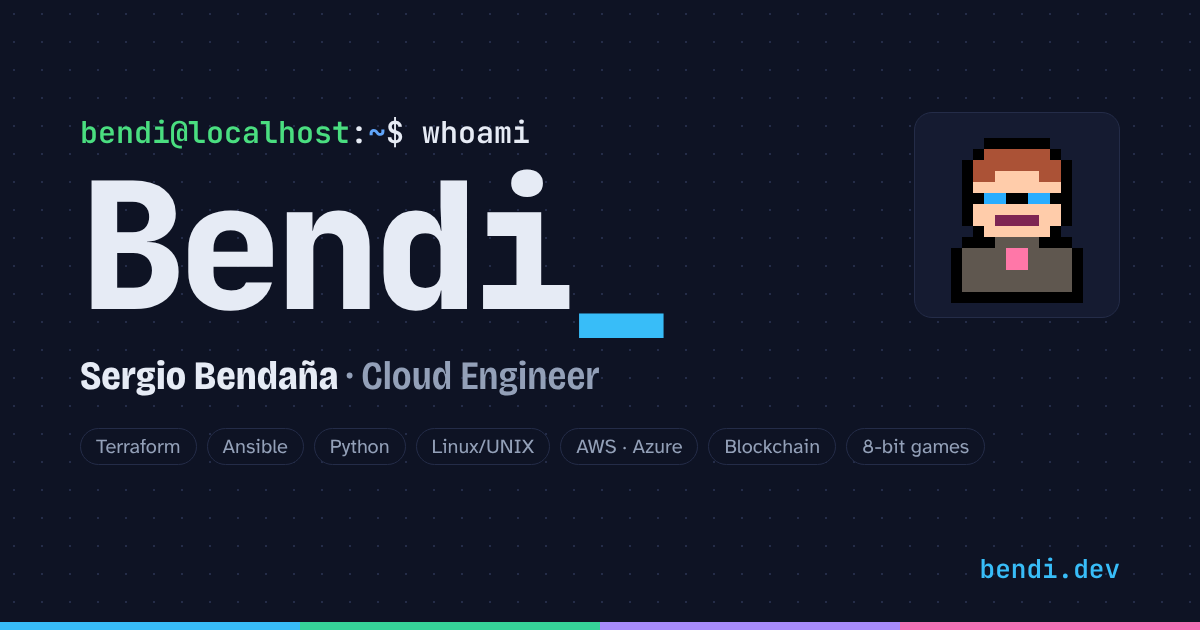
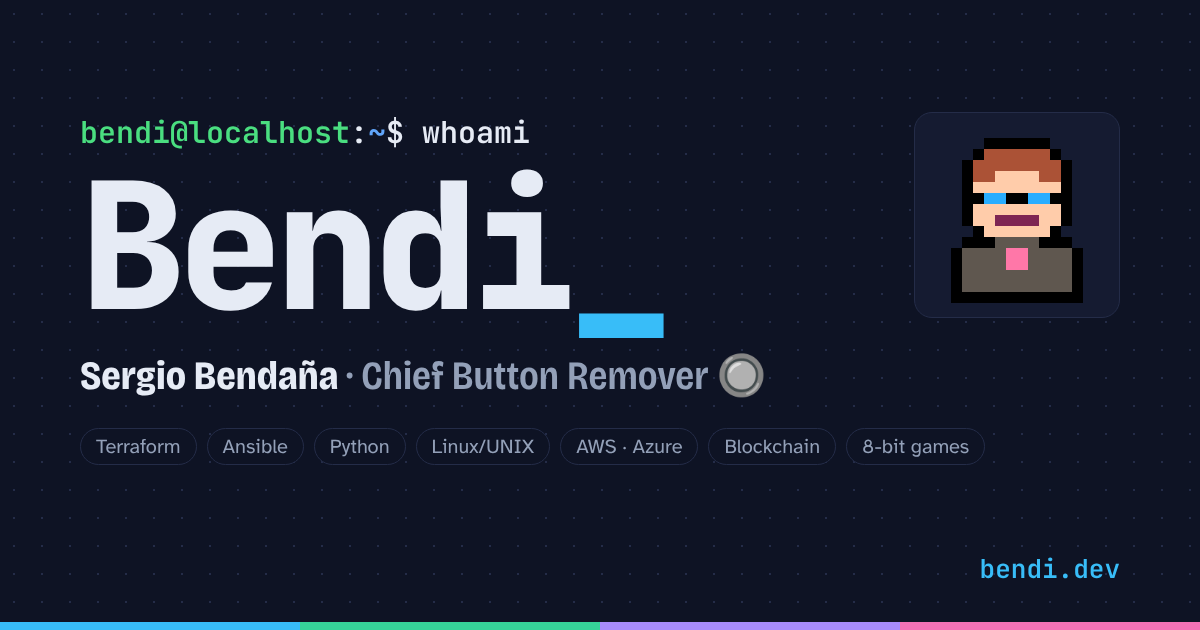
Chief Button Remover: hero title, manifesto, stat, 'press button' easter egg and share image

Changed region(s): [[0.3083, 0.5429, 0.6475, 0.6333]]

diff --git a/index.html b/index.html
@@ -12,7 +12,7 @@
 <meta property="og:title" content="Bendi · Sergio Bendaña">
 <meta property="og:description" content="20 años automatizando infraestructura, Máster en Blockchain con el proyecto ganador (FrameBlock) y juegos de 8 bits hechos en casa.">
 <meta property="og:url" content="https://bendi.dev/">
-<meta property="og:image" content="https://bendi.dev/og.png?v=4">
+<meta property="og:image" content="https://bendi.dev/og.png?v=5">
 <meta property="og:image:width" content="1200">
 <meta property="og:image:height" content="630">
 <meta property="og:image:alt" content="Sergio Bendaña, Cloud Engineer">
@@ -77,6 +77,9 @@ section { padding: 72px 0; border-top: 1px solid var(--line); }
 @keyframes cur { 50% { opacity: 0; } }
 @media (prefers-reduced-motion: reduce) { .hero h1 .cur { animation: none; } }
 .hero .who { font-size: clamp(20px, 2.4vw, 26px); margin-top: 8px; }
+.hero .cbr { display: flex; align-items: center; flex-wrap: wrap; gap: 4px 10px; margin-top: 10px; font: 600 clamp(15px, 1.7vw, 18px)/1.4 "JetBrains Mono", ui-monospace, monospace; color: var(--muted); }
+.hero .cbr b { color: var(--plays); font-weight: 700; }
+.hero .cbr .btn { width: 16px; height: 16px; border-radius: 50%; background: radial-gradient(circle at 35% 35%, #fda4cf, #db2777); box-shadow: 0 2px 0 #9d174d; flex: none; }
 .hero .pitch { color: var(--muted); max-width: 54ch; margin-top: 20px; font-size: 19px; }
 .links { display: flex; gap: 16px; flex-wrap: wrap; margin-top: 28px; }
 .links a { border: 1px solid var(--line); border-radius: 8px; padding: 8px 14px; color: var(--text); text-decoration: none; }
@@ -469,7 +472,8 @@ section.chain > .wrap { position: relative; }
       <p class="prompt" aria-hidden="true"><span class="u">bendi@localhost</span>:<span class="d">~</span>$ whoami</p>
       <h1>Bendi<span class="cur" aria-hidden="true">_</span></h1>
       <p class="who">Sergio Bendaña · Cloud Engineer</p>
-      <p class="pitch" data-t="hero.pitch">Automatizo infraestructura desde hace 20 años: empecé administrando UNIX en producción y hoy la defino como código. En casa hago juegos de 8 bits con mis hijas.</p>
+      <p class="cbr"><span class="btn" aria-hidden="true"></span><b>Chief Button Remover</b> <span data-t="hero.cbr">· Si lo pulsas dos veces, lo automatizo.</span></p>
+      <p class="pitch" data-t="hero.pitch">Llevo 20 años quitando botones: primero scripts en UNIX, luego Ansible y Terraform, y hoy plataformas enteras de automatización en la nube. Cada botón que desaparece es una guardia menos, un error humano menos y un equipo que dedica su tiempo a algo mejor. En casa hago juegos de 8 bits con mis hijas.</p>
       <div class="links">
         <a href="https://www.linkedin.com/in/serbenda/">LinkedIn</a>
         <a href="https://github.com/serbenda">GitHub</a>
@@ -480,7 +484,7 @@ section.chain > .wrap { position: relative; }
 
       <div class="stats">
         <div><strong>20+</strong><span data-t="sx.1">años en sistemas y automatización</span></div>
-        <div><strong>12.000</strong><span data-t="sx.2">servidores en una sola granja UNIX</span></div>
+        <div><strong>12.000</strong><span data-t="sx.2">servidores en una sola granja UNIX… y otros tantos botones quitados 🔘</span></div>
         <div><strong>4</strong><span data-t="sx.3">nubes gestionadas como código: AWS, Azure, Google Cloud y privada</span></div>
         <div><strong>🏆</strong><span data-t="sx.4">mejor proyecto del Máster en Blockchain</span></div>
         <div><strong>6</strong><span data-t="sx.5">juegos hechos en casa con mis hijas</span></div>
@@ -694,9 +698,10 @@ section.chain > .wrap { position: relative; }
 const T = {
   es: {
     "nav.about": "Sobre mí", "nav.arcade": "ARCADE", "nav.visits": "Visitas",
-    "hero.pitch": "Automatizo infraestructura desde hace 20 años: empecé administrando UNIX en producción y hoy la defino como código. En casa hago juegos de 8 bits con mis hijas.",
+    "hero.pitch": "Llevo 20 años quitando botones: primero scripts en UNIX, luego Ansible y Terraform, y hoy plataformas enteras de automatización en la nube. Cada botón que desaparece es una guardia menos, un error humano menos y un equipo que dedica su tiempo a algo mejor. En casa hago juegos de 8 bits con mis hijas.",
+    "hero.cbr": "· Si lo pulsas dos veces, lo automatizo.",
     "hero.play": "▶ JUGAR",
-    "hero.cv": "⬇ CV", "c.cv": "⬇ Descargar CV", "nav.how": "Cómo trabajo", "sx.1": "años en sistemas y automatización", "sx.2": "servidores en una sola granja UNIX", "sx.3": "nubes gestionadas como código: AWS, Azure, Google Cloud y privada", "sx.4": "mejor proyecto del Máster en Blockchain", "sx.5": "juegos hechos en casa con mis hijas", "term.title": "Terminal", "term.aria": "Escribe un comando", "how.title": "Cómo trabajo", "how.lead": "Cuatro reglas que me han servido en 20 años de producción.", "how.ex": "Ejemplo:", "how.1": "Si se hace dos veces, se automatiza", "how.1d": "Lo manual no escala y se olvida. Cada tarea repetida acaba en un script, un playbook o una imagen base.", "how.1e": "imágenes de sistema operativo con Packer y el trabajo repetitivo con Ansible, Python y Bash.", "how.2": "Infraestructura como código, o no existe", "how.2d": "Si no está versionada y revisada, no se puede repetir. La infraestructura se define, se revisa y se aplica como cualquier software.", "how.2e": "la plataforma de Terraform Enterprise que aprovisiona en AWS, Azure, Google Cloud y nube privada.", "how.3": "Producción manda", "how.3d": "Años de guardias 24x7 enseñan a medir antes de que duela y a dejar las cosas más estables de lo que estaban.", "how.3e": "planificación de capacidad con OpenTSDB y Grafana para una granja de 12.000 servidores.", "how.4": "Hacer fácil el trabajo de los demás", "how.4d": "La mejor automatización es la que otros equipos usan sin pensar. Plataformas, plantillas y pipelines antes que heroicidades.", "how.4e": "ayudar a los equipos de desarrollo con sus pipelines de CI/CD y unificar equipos de entrega UNIX.",
+    "hero.cv": "⬇ CV", "c.cv": "⬇ Descargar CV", "nav.how": "Cómo trabajo", "sx.1": "años en sistemas y automatización", "sx.2": "servidores en una sola granja UNIX… y otros tantos botones quitados 🔘", "sx.3": "nubes gestionadas como código: AWS, Azure, Google Cloud y privada", "sx.4": "mejor proyecto del Máster en Blockchain", "sx.5": "juegos hechos en casa con mis hijas", "term.title": "Terminal", "term.aria": "Escribe un comando", "how.title": "Cómo trabajo", "how.lead": "Cuatro reglas que me han servido en 20 años de producción.", "how.ex": "Ejemplo:", "how.1": "Si se hace dos veces, se automatiza", "how.1d": "Lo manual no escala y se olvida. Cada tarea repetida acaba en un script, un playbook o una imagen base.", "how.1e": "imágenes de sistema operativo con Packer y el trabajo repetitivo con Ansible, Python y Bash.", "how.2": "Infraestructura como código, o no existe", "how.2d": "Si no está versionada y revisada, no se puede repetir. La infraestructura se define, se revisa y se aplica como cualquier software.", "how.2e": "la plataforma de Terraform Enterprise que aprovisiona en AWS, Azure, Google Cloud y nube privada.", "how.3": "Producción manda", "how.3d": "Años de guardias 24x7 enseñan a medir antes de que duela y a dejar las cosas más estables de lo que estaban.", "how.3e": "planificación de capacidad con OpenTSDB y Grafana para una granja de 12.000 servidores.", "how.4": "Hacer fácil el trabajo de los demás", "how.4d": "La mejor automatización es la que otros equipos usan sin pensar. Plataformas, plantillas y pipelines antes que heroicidades.", "how.4e": "ayudar a los equipos de desarrollo con sus pipelines de CI/CD y unificar equipos de entrega UNIX.",
     "nav.chain": "Blockchain", "bc.eyebrow": "⛓ Blockchain · Proyecto final del máster", "bc.award": "🏆 Mejor proyecto · Máster en Blockchain · Universidad Europea · 2023", "bc.p1": "Blockchain sigue siendo difícil de usar y difícil de confiar para la mayoría de personas y empresas: hay que elegir una cadena, aprender sus herramientas, gestionar carteras y pagar en cripto.", "bc.p2a": "FrameBlock es un framework para conectar cualquier aplicación con cualquier blockchain,", "bc.p2b": "sea del proveedor o la tecnología que sea. Esconde esas decisiones detrás de una sola capa: la misma aplicación funciona en varias cadenas y el usuario no necesita saber cuál hay debajo.", "bc.with": "Hecho junto a", "bc.code": "Ver el código", "bc.video": "▶ Vídeo demo", "bc.tech": "Presentación técnica", "bc.biz": "Presentación de negocio", "bc.shot1": "Conecta la cartera que ya tienes: MetaMask, Ledger, Trezor, WalletConnect…", "bc.shot2": "Crea tu colección a partir de imágenes generadas por IA.", "bc.f1": "semanas de máster", "bc.f2": "proyectos finales", "bc.f3": "blockchains desde una sola app", "bc.f4": "elegido por el jurado", "bc.how": "Cómo funciona: Simple AI Collection", "bc.howlead": "Para demostrarlo construimos una dApp real, de principio a fin. Cada paso es un bloque de la cadena:", "bc.s1": "Conecta tu cartera", "bc.s1d": "Con Web3 Onboard: MetaMask, Ledger, Trezor y muchas más.", "bc.s2": "Busca imágenes con IA", "bc.s2d": "Escribes unas palabras y la IA genera las imágenes.", "bc.s3": "Guarda en IPFS", "bc.s3d": "Las imágenes y sus metadatos, en almacenamiento descentralizado.", "bc.s4": "Paga con tarjeta", "bc.s4d": "El coste del despliegue con Stripe, sin necesidad de cripto.", "bc.s5": "Acuña tu colección NFT", "bc.s5d": "Un contrato ERC-721 en Ethereum, BNB Smart Chain o Polygon.", "bc.edge": "Lo que lo hace distinto", "bc.e1": "Agnóstico del proveedor", "bc.e1d": "Una sola integración, varias cadenas, y hueco para añadir más.", "bc.e2": "Usable sin saber de cripto", "bc.e2d": "Entras con la cartera que ya tienes o pagas con tarjeta.", "bc.e3": "Confianza de serie", "bc.e3d": "Piezas auditadas de OpenZeppelin, un registro on-chain de quién es dueño de qué y archivos en IPFS que nadie puede cambiar a escondidas.", "bc.e4": "Un producto, no solo diapositivas", "bc.e4d": "Un MVP que funciona, enseñado de principio a fin en la demo.", "bc.prize": "El premio", "bc.prized": "Tras 14 intensas semanas, los alumnos del Máster en Blockchain de la Universidad Europea defendieron sus proyectos finales ante un jurado de expertos del sector. Después de una deliberación complicada por el nivel de todos los proyectos, FrameBlock fue elegido ganador.", "bc.prizel": "Ver el anuncio en LinkedIn →", "hero.sp": "❤ Patrocinar", "c.sp": "❤ Apoya los juegos", "hero.pipe": "De 2005 a hoy",
     "st.1": "Soporte de hardware, software y redes", "st.2": "UNIX en producción 24x7", "st.3": "UNIX a gran escala y OpenStack",
     "st.4": "Hoy", "st.4d": "Infraestructura como código",
@@ -728,9 +733,10 @@ const T = {
   },
   en: {
     "nav.about": "About", "nav.arcade": "ARCADE", "nav.visits": "Visits",
-    "hero.pitch": "I've been automating infrastructure for 20 years: I started running production UNIX and today I define it as code. At home I make 8-bit games with my daughters.",
+    "hero.pitch": "I've spent 20 years removing buttons: first UNIX scripts, then Ansible and Terraform, and today whole automation platforms in the cloud. Every button gone is one less on-call night, one less human error and one team free to work on something better. At home I make 8-bit games with my daughters.",
+    "hero.cbr": "· If you click it twice, I automate it.",
     "hero.play": "▶ PLAY",
-    "hero.cv": "⬇ CV", "c.cv": "⬇ Download CV", "nav.how": "How I work", "sx.1": "years in systems and automation", "sx.2": "servers in a single UNIX farm", "sx.3": "clouds managed as code: AWS, Azure, Google Cloud and private", "sx.4": "best project of the Master's in Blockchain", "sx.5": "games made at home with my daughters", "term.title": "Terminal", "term.aria": "Type a command", "how.title": "How I work", "how.lead": "Four rules that have served me through 20 years of production.", "how.ex": "Example:", "how.1": "If it's done twice, it gets automated", "how.1d": "Manual work doesn't scale and gets forgotten. Every repeated task ends up as a script, a playbook or a base image.", "how.1e": "OS images with Packer and the repetitive work with Ansible, Python and Bash.", "how.2": "Infrastructure as code, or it doesn't exist", "how.2d": "If it isn't versioned and reviewed, it can't be repeated. Infrastructure is defined, reviewed and applied like any other software.", "how.2e": "the Terraform Enterprise platform that provisions on AWS, Azure, Google Cloud and private cloud.", "how.3": "Production comes first", "how.3d": "Years of 24x7 on-call teach you to measure before it hurts and to leave things more stable than you found them.", "how.3e": "capacity planning with OpenTSDB and Grafana for a 12,000-server farm.", "how.4": "Make other people's work easy", "how.4d": "The best automation is the one other teams use without thinking. Platforms, templates and pipelines rather than heroics.", "how.4e": "helping development teams with their CI/CD pipelines and merging UNIX delivery teams.",
+    "hero.cv": "⬇ CV", "c.cv": "⬇ Download CV", "nav.how": "How I work", "sx.1": "years in systems and automation", "sx.2": "servers in a single UNIX farm… and as many buttons removed 🔘", "sx.3": "clouds managed as code: AWS, Azure, Google Cloud and private", "sx.4": "best project of the Master's in Blockchain", "sx.5": "games made at home with my daughters", "term.title": "Terminal", "term.aria": "Type a command", "how.title": "How I work", "how.lead": "Four rules that have served me through 20 years of production.", "how.ex": "Example:", "how.1": "If it's done twice, it gets automated", "how.1d": "Manual work doesn't scale and gets forgotten. Every repeated task ends up as a script, a playbook or a base image.", "how.1e": "OS images with Packer and the repetitive work with Ansible, Python and Bash.", "how.2": "Infrastructure as code, or it doesn't exist", "how.2d": "If it isn't versioned and reviewed, it can't be repeated. Infrastructure is defined, reviewed and applied like any other software.", "how.2e": "the Terraform Enterprise platform that provisions on AWS, Azure, Google Cloud and private cloud.", "how.3": "Production comes first", "how.3d": "Years of 24x7 on-call teach you to measure before it hurts and to leave things more stable than you found them.", "how.3e": "capacity planning with OpenTSDB and Grafana for a 12,000-server farm.", "how.4": "Make other people's work easy", "how.4d": "The best automation is the one other teams use without thinking. Platforms, templates and pipelines rather than heroics.", "how.4e": "helping development teams with their CI/CD pipelines and merging UNIX delivery teams.",
     "nav.chain": "Blockchain", "bc.eyebrow": "⛓ Blockchain · Master's final project", "bc.award": "🏆 Best project · Master's in Blockchain · Universidad Europea · 2023", "bc.p1": "Blockchain is still hard to use and hard to trust for most people and companies: you have to pick a chain, learn its tools, manage wallets and pay in crypto.", "bc.p2a": "FrameBlock is a framework to plug any application into any blockchain,", "bc.p2b": "whatever the vendor or technology. It hides those choices behind a single layer, so the same app works on several chains and users never need to know which one is underneath.", "bc.with": "Built together with", "bc.code": "See the code", "bc.video": "▶ Demo video", "bc.tech": "Technical deck", "bc.biz": "Business deck", "bc.shot1": "Connect the wallet you already have: MetaMask, Ledger, Trezor, WalletConnect…", "bc.shot2": "Build your collection from AI-generated images.", "bc.f1": "weeks of Master's", "bc.f2": "final projects", "bc.f3": "blockchains from a single app", "bc.f4": "picked by the jury", "bc.how": "How it works: Simple AI Collection", "bc.howlead": "To prove it we built a real dApp, end to end. Each step is a block in the chain:", "bc.s1": "Connect your wallet", "bc.s1d": "With Web3 Onboard: MetaMask, Ledger, Trezor and many more.", "bc.s2": "Search AI images", "bc.s2d": "Type a few words and the AI generates the images.", "bc.s3": "Store on IPFS", "bc.s3d": "Images and their metadata, on decentralized storage.", "bc.s4": "Pay by card", "bc.s4d": "The deployment fee through Stripe, no crypto needed.", "bc.s5": "Mint your NFT collection", "bc.s5d": "An ERC-721 contract on Ethereum, BNB Smart Chain or Polygon.", "bc.edge": "What makes it different", "bc.e1": "Vendor-agnostic", "bc.e1d": "One integration, several chains, and room to add more.", "bc.e2": "Usable without knowing crypto", "bc.e2d": "Sign in with the wallet you already have, or pay by card.", "bc.e3": "Trust built in", "bc.e3d": "Audited OpenZeppelin building blocks, an on-chain registry of who owns what, and files on IPFS that nobody can quietly change.", "bc.e4": "A product, not just slides", "bc.e4d": "A working MVP, shown end to end in the demo.", "bc.prize": "The award", "bc.prized": "After 14 intense weeks, the students of the Master's in Blockchain at Universidad Europea defended their final projects before a jury of industry experts. After a tough deliberation, with every project at a high level, the jury picked FrameBlock as the winner.", "bc.prizel": "See the announcement on LinkedIn →", "hero.sp": "❤ Sponsor", "c.sp": "❤ Support the games", "hero.pipe": "From 2005 to today",
     "st.1": "Hardware, software and network support", "st.2": "24x7 production UNIX", "st.3": "UNIX at scale and OpenStack",
     "st.4": "Today", "st.4d": "Infrastructure as code",
@@ -1058,7 +1064,7 @@ function renderChain() {
 const TERM = { hist: [], at: 0 };
 const L = (es, en) => (lang === "es" ? es : en);
 const cvURL = () => `cv/Sergio-Bendana-CV-${lang}.pdf`;
-const TCMDS = ["help", "whoami", "skills", "experience", "projects", "play", "frameblock", "how", "contact", "cv", "ls", "cat", "lang", "clear", "coffee", "sudo", "exit", "date", "uptime", "neofetch"];
+const TCMDS = ["help", "whoami", "skills", "experience", "projects", "play", "frameblock", "how", "contact", "cv", "ls", "cat", "lang", "clear", "coffee", "sudo", "exit", "date", "uptime", "neofetch", "press"];
 function tline(html, cls = "") { const o = document.getElementById("tout"); const d = document.createElement("div"); if (cls) d.className = cls; d.innerHTML = html; o.appendChild(d); o.scrollTop = o.scrollHeight; }
 const TRUN = {
   help: () => L(
@@ -1141,10 +1147,20 @@ Sponsor   <a href="https://github.com/sponsors/serbenda">github.com/sponsors/ser
   exit: () => L("Buen intento. De aquí no se sale sin jugar una partida: <span class=\"c2\">play chapas</span>", "Nice try. Nobody leaves without playing a round: <span class=\"c2\">play chapas</span>"),
   date: () => new Date().toLocaleString(loc()),
   uptime: () => `up ${new Date().getFullYear() - 2005} ${L("años en sistemas", "years in systems")}, load average: 🧒 🧒 🕹`,
+  press: a => /^(button|bot[oó]n)?$/.test(a) ? L(
+`🔘 Botón pulsado (1/1).
+<span class="hl">⚠  Detectado el mismo botón pulsado dos veces.</span>
+⚙  Automatizando... <span class="ok">hecho</span>.
+🗑  Botón eliminado. De nada. — <span class="c2">Chief Button Remover</span>`,
+`🔘 Button pressed (1/1).
+<span class="hl">⚠  Same button pressed twice detected.</span>
+⚙  Automating... <span class="ok">done</span>.
+🗑  Button removed. You're welcome. — <span class="c2">Chief Button Remover</span>`) : L("press: ¿qué quieres pulsar? Prueba <span class=\"c2\">press button</span>", "press: press what? Try <span class=\"c2\">press button</span>"),
   neofetch: () =>
 `<span class="c3">  ▄▄▄▄▄▄▄  </span>  <span class="ok">bendi</span>@<span class="ok">localhost</span>
 <span class="c3">  █ ▀ ▀ █  </span>  OS: Linux (${L("desde siempre", "since forever")})
-<span class="c3">  █ ▄▄▄ █  </span>  Shell: bash · ansible · terraform
+<span class="c3">  █ ▄▄▄ █  </span>  Title: Chief Button Remover 🔘
+             Shell: bash · ansible · terraform
 <span class="c3">  ▀▀▀▀▀▀▀  </span>  Uptime: ${new Date().getFullYear() - 2005}y · Awards: 🏆 FrameBlock
              Hobbies: ${L("juegos de 8 bits, homelab", "8-bit games, homelab")}`,
 };

diff --git a/og.html b/og.html
@@ -32,7 +32,7 @@
   <div class="wrap">
     <div class="prompt"><span class="u">bendi@localhost</span>:<span class="d">~</span>$ whoami</div>
     <h1>Bendi<span class="cur">_</span></h1>
-    <div class="who">Sergio Bendaña <span>· Cloud Engineer</span></div>
+    <div class="who">Sergio Bendaña <span>· Chief Button Remover 🔘</span></div>
     <div class="stack"><i>Terraform</i><i>Ansible</i><i>Python</i><i>Linux/UNIX</i><i>AWS · Azure</i><i>Blockchain</i><i>8-bit games</i></div>
   </div>
   <img class="me" src="img/bendi.svg" alt="">

diff --git a/header.html b/header.html
@@ -28,8 +28,8 @@
     <div>
       <div class="hi">Hi, I'm Bendi</div>
       <h1>Sergio Bendaña</h1>
-      <div class="cls">Cloud Engineer</div>
-      <div class="tag">20 years automating infrastructure · 8-bit games made at home</div>
+      <div class="cls">Chief Button Remover · Cloud Engineer</div>
+      <div class="tag">If you click it twice, I automate it · 8-bit games made at home</div>
     </div>
   </div>
   
